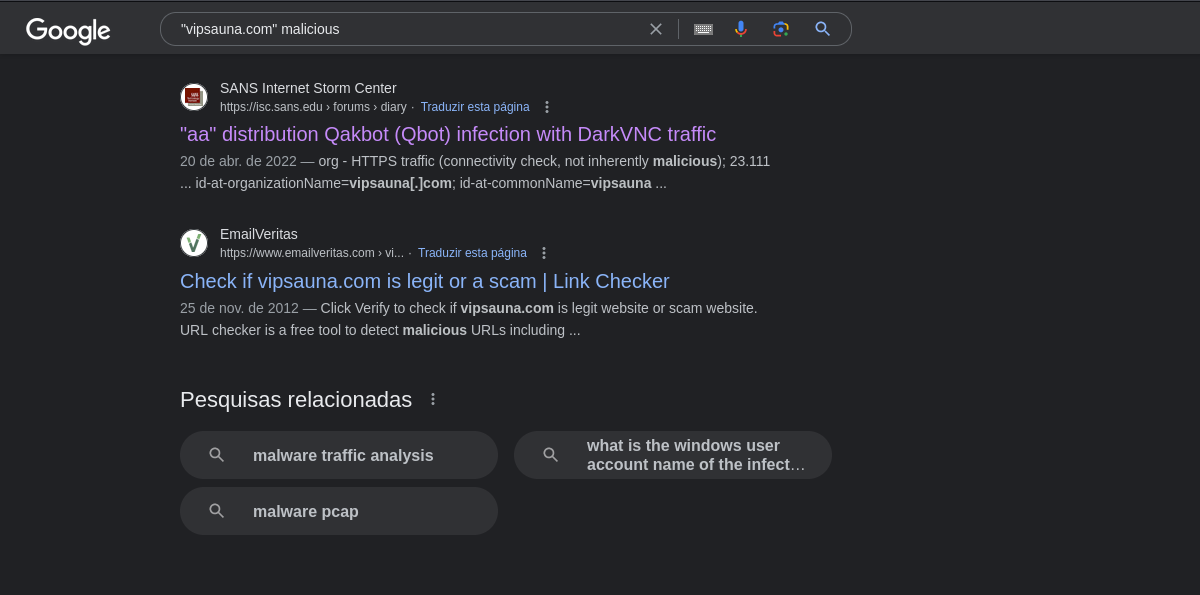
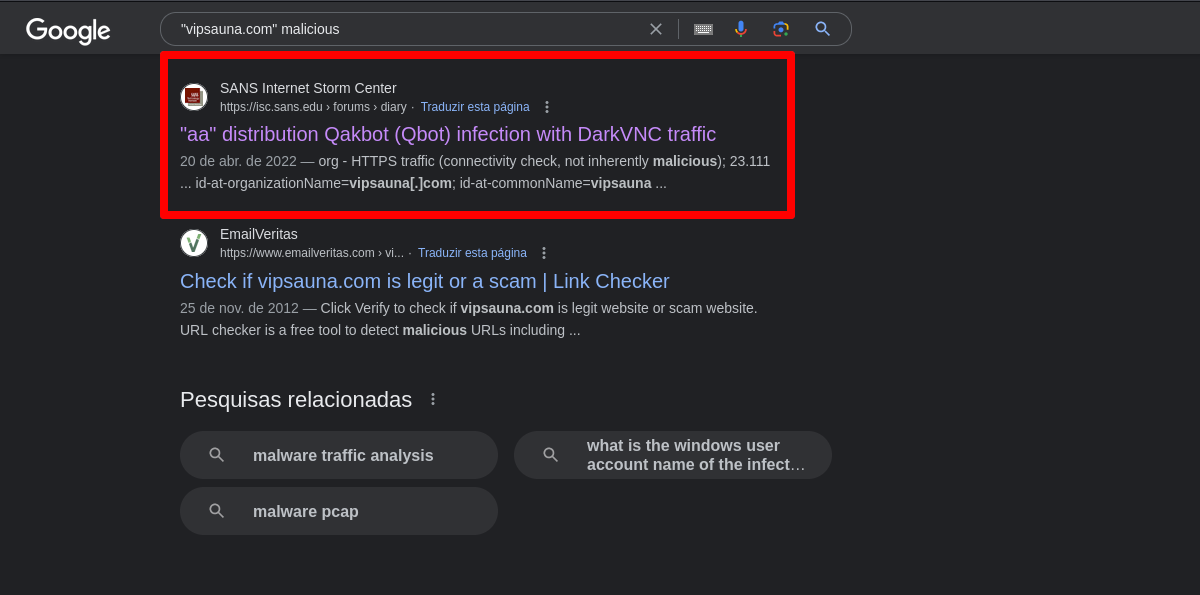
New Files

Changed region(s): [[0.1233, 0.0605, 0.6783, 0.3933]]

diff --git a/README.md b/README.md
@@ -359,10 +359,31 @@ This confirms the C2 traffic contained within those rogue TCP connections.
 
 ### The root of the problem  
 
-Returning to the web traffic transmission, a specific set of connections stand out due to the detail involving the
-certification. The connections are the following:  
+Returning to the web traffic transmissions, a specific set of connections stood out due to the details involving the
+certification provided by the destination server. The connections are the following:  
 
 ![Web Traffic Malware Source](./images/Web_Traffic_Malware_Source.png "Web Traffic Malware Source")  
+
+The information that highlighted the most involving those connections were the "Organization name" and "Common name"
+fields, as shown in the following image:  
+
+![Fake Certification Credentials](./images/Fake_Certification_Credentials.png "Fake Certification Credentials")  
+
+Usually, these fields contain information related to the name of certification-issuing companies responsible for
+authenticating and ensuring the legitimacy of the connection.  
+
+However, despite the information regarding the location appearing to be legitimate, the *"vipsauna.com"* domain isn't
+trustworthy or even related to the certification-issuing business.  
+
+Therefore, as previously assessed, this connection is illegitimate and insecure, in conclusion, it is a malicious
+in nature.  
+
+Investigating this domain will be **the next step** into the analysis of this malware.  
+
+![Malware Discovery](./images/Malware_Discovery.png "Malware Discovery")  
+
+By performing a simple Google search over the domain, an article from the [SANS][link10] institute makes reference to
+the domain in question.  
 
 ---
 
@@ -381,3 +402,5 @@ Here will come the conclusion and notes.
 [link7]: https://github.com/pan-unit42/Wireshark-quizzes/blob/main/2023-02-Unit42-Wireshark-quiz.pcap.zip
 [link8]: https://www.wireshark.org/download.html
 [link9]: https://www.virustotal.com
+[link10]: https://isc.sans.edu
+[link11]: https://isc.sans.edu/diary/aa+distribution+Qakbot+Qbot+infection+with+DarkVNC+traffic/28568/
